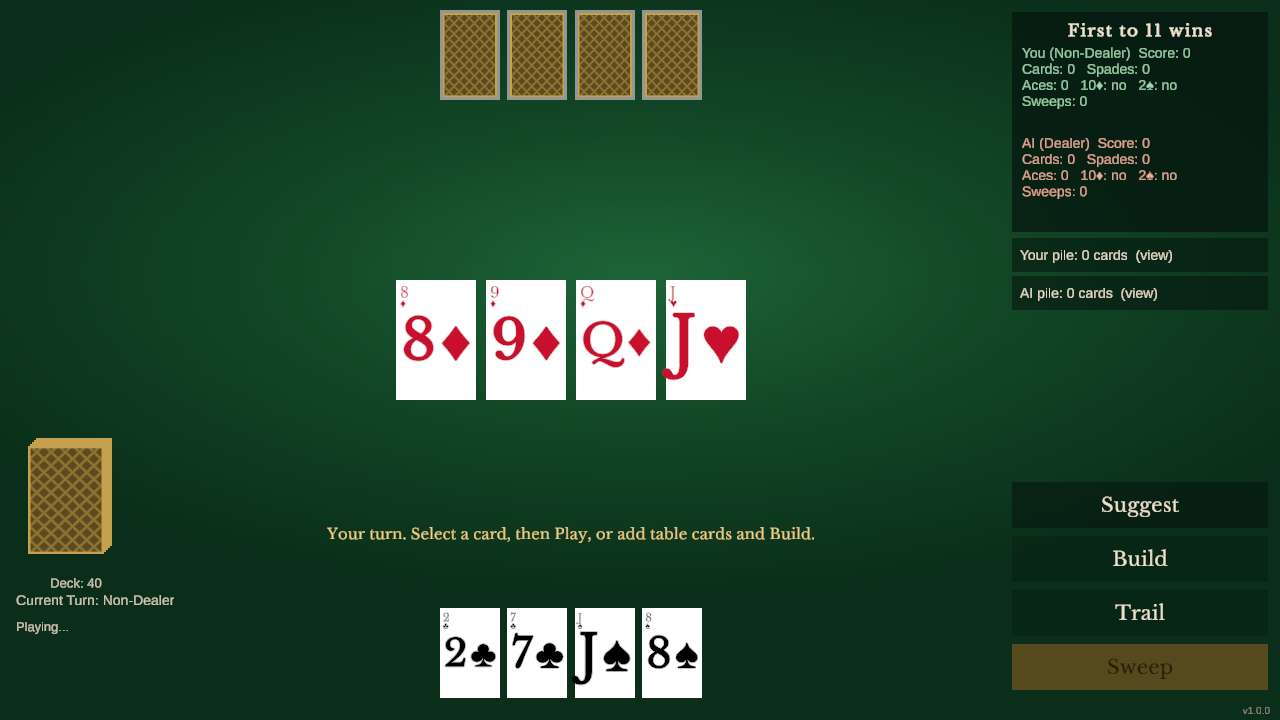
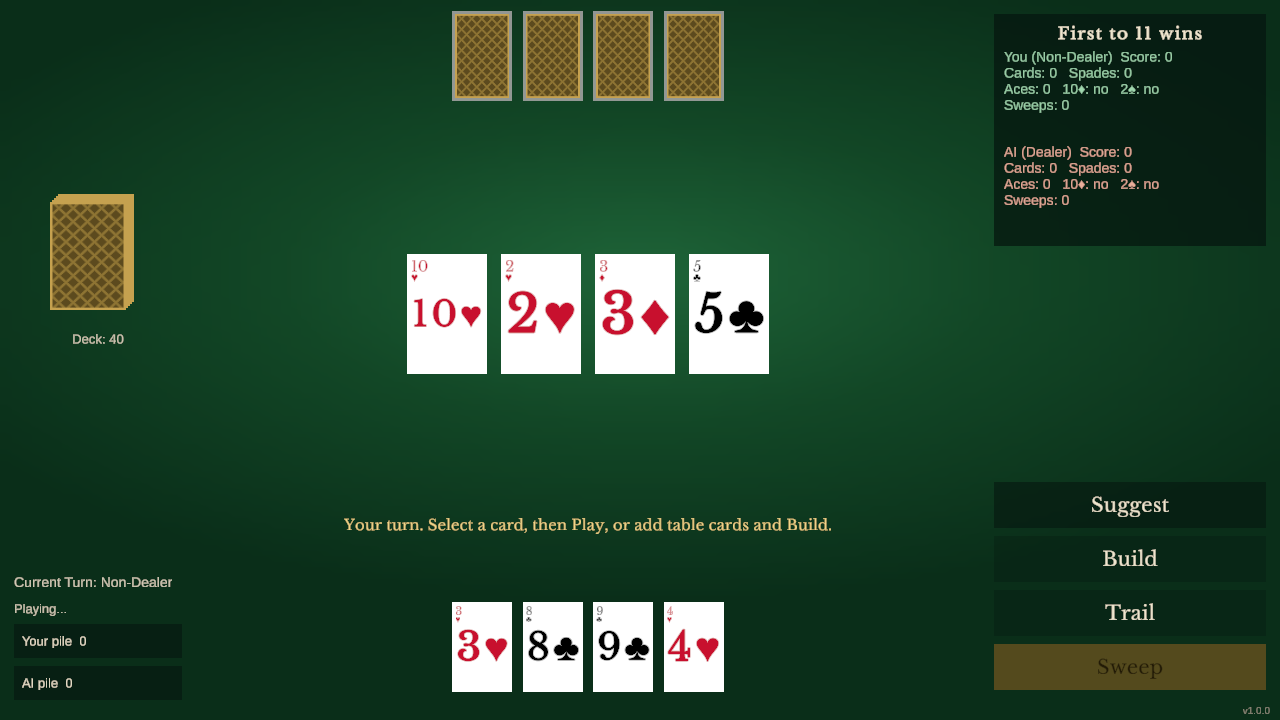
Port the actual Parlor grid, which the Wide profile was not using
Rick called this: the running game did not match the chosen design. The Wide
profile was authored during Stage 4a as a generic rebalance, before a direction
was picked, and the Stage 4b port changed palette, materials and card states but
never went back and re-derived the geometry from the mockup. So the colours were
Parlor and the layout was not.

The mockup's grid is:

  columns  168 | 1fr | 272        rows  112 | 1fr | 46 | 158     padding 14
  "deck  opp    score"
  "deck  table  score"
  "piles hint   actions"
  "piles hand   actions"

Left column is the draw pile over the two capture piles; the right rail is score
over actions. The most visible error was the pile buttons, which I had put under
the score panel in the right rail; they belong bottom-left. The play column spans
x 182..994, so its centre is 588 rather than 640, which is where the -52 offsets
now come from. Compact is the same grid at 140 | 1fr | 236.

Moving the piles from a 250-wide rail into the 168-wide left column broke their
label onto two lines, so it is now "Your pile  0" rather than a sentence.

Verified at 1280x720 against the mockup; docs/design/parlor-wide-ingame.png
updated. Geometry check still clean on all three profiles.

diff --git a/Assets/Scripts/CasinoLayout.cs b/Assets/Scripts/CasinoLayout.cs
@@ -69,28 +69,39 @@ public static class CasinoLayout
     public static readonly Profile Wide = new()
     {
         Name = "Wide", Reference = new Vector2(1280, 720), Match = 1f,
-        CardSize = new Vector2(80, 120), RowSpacing = 10f,
+        CardSize = new Vector2(80, 120), RowSpacing = 14f,
 
-        OpponentHand = new Zone(0.5f, 1f, -69, -14, 460, 110),
-        Table        = new Zone(0.5f, 0.5f, -69, 20, 620, 140),
-        PlayerHand   = new Zone(0.5f, 0f, -69, 18, 460, 130),
-        Hint         = new Zone(0.5f, 0f, -69, 162, 560, 48),
+        // Ported from the Parlor mockup's grid, not re-invented:
+        //   columns  168 | 1fr | 272      rows  112 | 1fr | 46 | 158    padding 14
+        //   "deck  opp    score"
+        //   "deck  table  score"
+        //   "piles hint   actions"
+        //   "piles hand   actions"
+        // Left column is deck over piles; the right rail is score over actions.
+        // The play column spans x 182..994, so its centre is 588, which is 52
+        // left of the canvas centre. That is where the -52 offsets come from.
 
-        Score      = new Zone(1f, 1f, -12, -12, 256, 220),
-        PlayerPile = new Zone(1f, 1f, -12, -238, 256, 34),
-        AiPile     = new Zone(1f, 1f, -12, -276, 256, 34),
+        OpponentHand = new Zone(0.5f, 1f, -52, -14, 460, 112),
+        Table        = new Zone(0.5f, 0.5f, -52, 46, 620, 150),
+        Hint         = new Zone(0.5f, 0f, -52, 172, 560, 46),
+        PlayerHand   = new Zone(0.5f, 0f, -52, 14, 460, 158),
 
+        Score = new Zone(1f, 1f, -14, -14, 272, 232),
         ActionAnchor = new Vector2(1, 0),
-        ActionFirst  = new Vector2(-12, 30),   // clears the version stamp at y 4..22
+        ActionFirst  = new Vector2(-14, 30),   // clears the version stamp at y 4..22
         ActionStep   = new Vector2(0, 54),
-        ActionSize   = new Vector2(256, 46),
+        ActionSize   = new Vector2(272, 46),
 
-        DrawPile   = new Zone(0f, 0f, 28, 152, 96, 132),
-        TurnText   = new Zone(0f, 0f, 16, 112, 190, 26),
-        StatusText = new Zone(0f, 0f, 16, 86, 190, 26),
-        Version    = new Zone(1f, 0f, -10, 4, 120, 18),
-        GameOver   = new Zone(0.5f, 0.5f, 0, 0, 440, 240),
-    };
+        // Left column, top to bottom: draw pile, status, then the two piles.
+        DrawPile   = new Zone(0f, 0f, 50, 396, 96, 132),
+        TurnText   = new Zone(0f, 0f, 14, 130, 170, 24),
+        StatusText = new Zone(0f, 0f, 14, 104, 170, 24),
+        PlayerPile = new Zone(0f, 0f, 14, 62, 168, 34),
+        AiPile     = new Zone(0f, 0f, 14, 20, 168, 34),
+
+        Version  = new Zone(1f, 0f, -10, 4, 120, 18),
+        GameOver = new Zone(0.5f, 0.5f, 0, 0, 440, 240),
+        };
 
     // -----------------------------------------------------------------
     // Compact: 4:3 and similar. Same arrangement, tighter rail.
@@ -98,28 +109,30 @@ public static class CasinoLayout
     public static readonly Profile Compact = new()
     {
         Name = "Compact", Reference = new Vector2(1024, 768), Match = 1f,
-        CardSize = new Vector2(76, 114), RowSpacing = 8f,
+        CardSize = new Vector2(76, 114), RowSpacing = 10f,
 
-        OpponentHand = new Zone(0.5f, 1f, -58, -12, 420, 104),
-        Table        = new Zone(0.5f, 0.5f, -58, 16, 560, 132),
-        PlayerHand   = new Zone(0.5f, 0f, -58, 14, 420, 124),
-        Hint         = new Zone(0.5f, 0f, -58, 150, 500, 46),
+        // Same Parlor grid, tighter: columns 140 | 1fr | 236, padding 12.
+        // Play column is x 152..776, centre 464, i.e. 48 left of canvas centre.
+        OpponentHand = new Zone(0.5f, 1f, -48, -12, 420, 104),
+        Table        = new Zone(0.5f, 0.5f, -48, 40, 560, 140),
+        Hint         = new Zone(0.5f, 0f, -48, 152, 500, 44),
+        PlayerHand   = new Zone(0.5f, 0f, -48, 12, 420, 140),
 
-        Score      = new Zone(1f, 1f, -10, -10, 226, 210),
-        PlayerPile = new Zone(1f, 1f, -10, -226, 226, 32),
-        AiPile     = new Zone(1f, 1f, -10, -262, 226, 32),
-
+        Score = new Zone(1f, 1f, -12, -12, 236, 220),
         ActionAnchor = new Vector2(1, 0),
-        ActionFirst  = new Vector2(-10, 28),   // clears the version stamp at y 4..22
+        ActionFirst  = new Vector2(-12, 28),
         ActionStep   = new Vector2(0, 50),
-        ActionSize   = new Vector2(226, 44),
+        ActionSize   = new Vector2(236, 44),
 
-        DrawPile   = new Zone(0f, 0f, 24, 140, 88, 120),
-        TurnText   = new Zone(0f, 0f, 14, 100, 180, 24),
-        StatusText = new Zone(0f, 0f, 14, 76, 180, 24),
-        Version    = new Zone(1f, 0f, -10, 4, 120, 18),
-        GameOver   = new Zone(0.5f, 0.5f, 0, 0, 420, 230),
-    };
+        DrawPile   = new Zone(0f, 0f, 38, 416, 88, 120),
+        TurnText   = new Zone(0f, 0f, 12, 122, 150, 24),
+        StatusText = new Zone(0f, 0f, 12, 96, 150, 24),
+        PlayerPile = new Zone(0f, 0f, 12, 56, 140, 32),
+        AiPile     = new Zone(0f, 0f, 12, 18, 140, 32),
+
+        Version  = new Zone(1f, 0f, -10, 4, 120, 18),
+        GameOver = new Zone(0.5f, 0.5f, 0, 0, 420, 230),
+        };
 
     // -----------------------------------------------------------------
     // Portrait: phone. Match width, not height, or the whole board scales

diff --git a/Assets/Scripts/UIManager.cs b/Assets/Scripts/UIManager.cs
@@ -918,7 +918,7 @@ public class UIManager : MonoBehaviour
         lr.anchorMax = Vector2.one;
         lr.offsetMin = new Vector2(8, 0);
         lr.offsetMax = new Vector2(-8, 0);
-        label.fontSize = 14;
+        label.fontSize = 13;
         label.alignment = TextAlignmentOptions.Left;
         label.color = CasinoTheme.TextPrimary;
         return btn;
@@ -1531,8 +1531,8 @@ public class UIManager : MonoBehaviour
 
         if (humanPileLabel != null)
         {
-            humanPileLabel.text = $"Your pile: {human.CapturedCards.Count} cards  (view)";
-            aiPileLabel.text = $"AI pile: {ai.CapturedCards.Count} cards  (view)";
+            humanPileLabel.text = $"Your pile  {human.CapturedCards.Count}";
+            aiPileLabel.text = $"AI pile  {ai.CapturedCards.Count}";
         }
         if (capturedPanel != null && capturedPanel.activeSelf)
             RebuildPilePanel();
